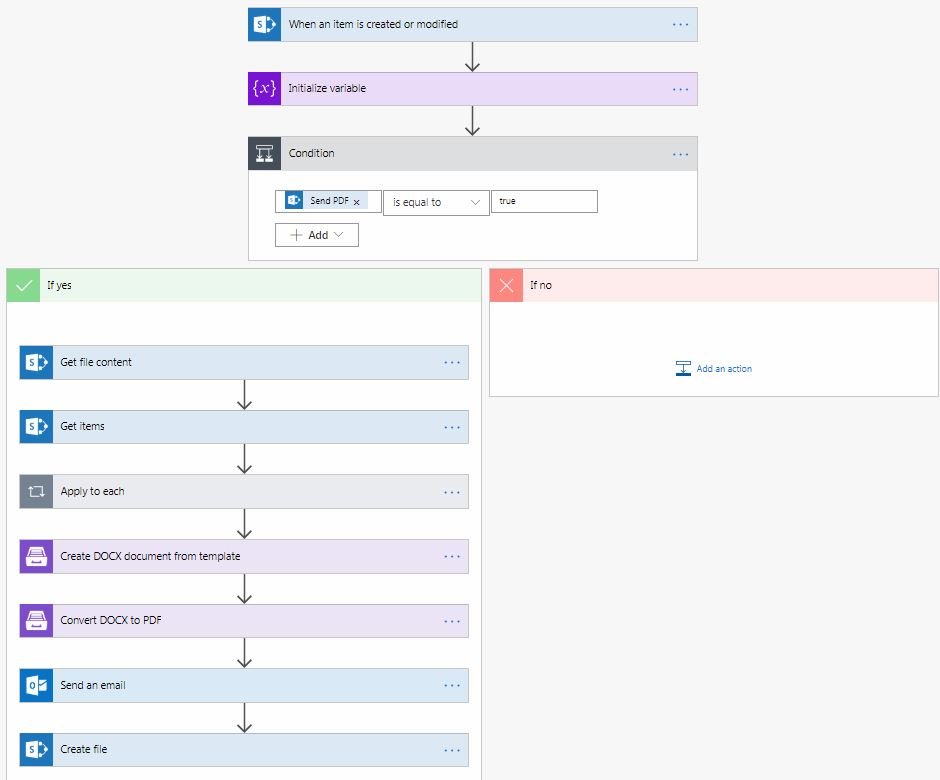
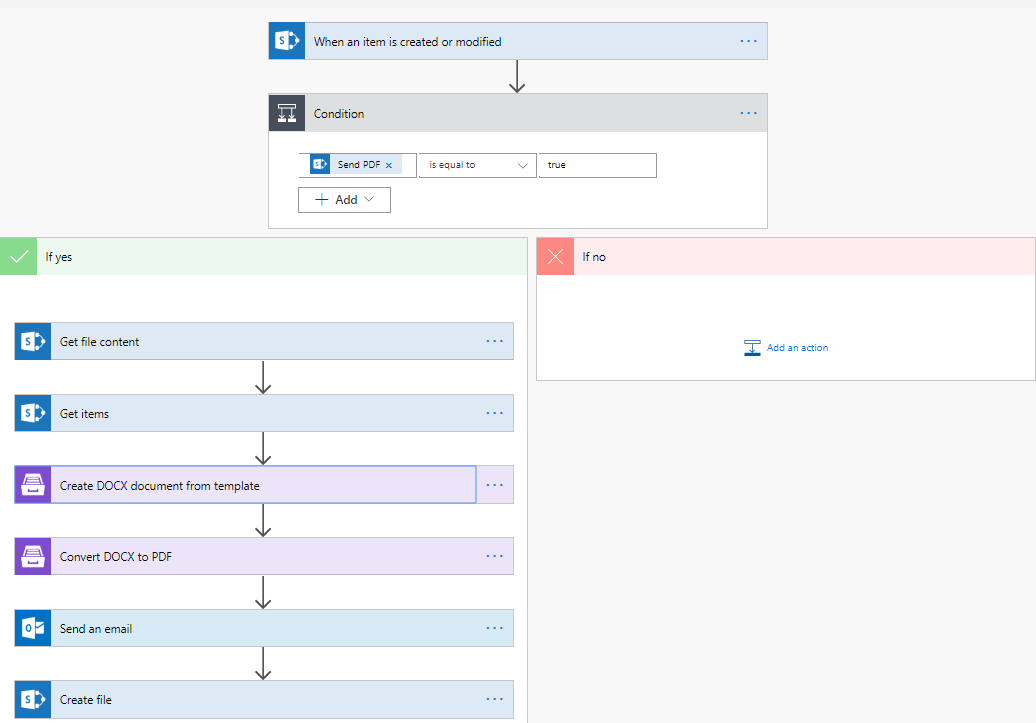
Code updated and the flow changed

diff --git a/SharePoint/how-to/docx-to-pdf.rst b/SharePoint/how-to/docx-to-pdf.rst
@@ -56,21 +56,22 @@ Next, we will create forms for the "Work Order". In the "New" view we add genera
 
 .. code-block:: javascript
 
-    fd.spRendered(function() { 
-        function SendEmail() { 
-            if (fd.field('SendPDF').value) { 
-                // Setting field Email as editable 
-                fd.field('Email').disabled = false; 
-            } else { 
-                // Setting field Email as read-only 
-                fd.field('Email').disabled = true; 
+    function updateEmailAvailability() { 
+        if (fd.field('SendPDF').value) { 
+            // Setting field Email as editable 
+            fd.field('Email').disabled = false; 
+        } else { 
+            // Setting field Email as read-only 
+            fd.field('Email').disabled = true; 
             } 
         } 
-        // Calling SendEmail when the user changes Send PDF field 
-        fd.field('SendPDF').$on('change',SendEmail); 
+    fd.spRendered(function() { 
 
-        // Calling SendEmail on form loading 
-        SendEmail(); 
+        // Calling updateEmailAvailability when the user changes Send PDF field 
+        fd.field('SendPDF').$on('change',updateEmailAvailability); 
+
+        // Calling updateEmailAvailability on form loading 
+        updateEmailAvailability(); 
     });     
 
 As a result, the editing form is ready and looks something like this. 
@@ -94,14 +95,6 @@ The final Flow will looks like this:
    :alt: Flow
 
 We'll create it step by step.
-
-Add *Initialize variable* action. We’ll need it later to hold SharePoint Items. Specify the name, "Type" is array, and the value is blank. 
-
-|pic4|
-
-.. |pic4| image:: ../images/how-to/docx-to-pdf/variable.png
-   :alt: Initialize variable
-
 
 The Flow will create PDF and send email only if "Send PDF" is checked, so we add a condition first. 
 
@@ -128,18 +121,6 @@ Next, we will get all the items from the child list with *Get items* action and 
 .. |pic7| image:: ../images/how-to/docx-to-pdf/get_items.png
    :alt: Get Items
 
-As we need to get multiple items we do the following: 
-
-1. Add "apply to each" control;
-2. In "Select an output from previous steps" specify a value from "Get items" action;
-3. Add "Compose" action to define current item properties;
-4. Then add "Append to array variable", select the variable name from the drop-down, and value is the output from "Compose" action. 
-
-|pic8|
-
-.. |pic8| image:: ../images/how-to/docx-to-pdf/applyToEach.png
-   :alt: Apply to each
-
 Now it’s time to create the file from the template and convert it to PDF. That are two actions from |Plumsail Documents|. 
 
 First, we will Create |DOCX from Template|: 
@@ -148,6 +129,8 @@ First, we will Create |DOCX from Template|:
 
 .. |pic9| image:: ../images/how-to/docx-to-pdf/docx_from_template.png
    :alt: DOCX from template
+
+.. Note:: *Value* under *Items* properties is the Value from *Get Items* Action.
 
 And then |Convert DOCX to PDF|: 
 
